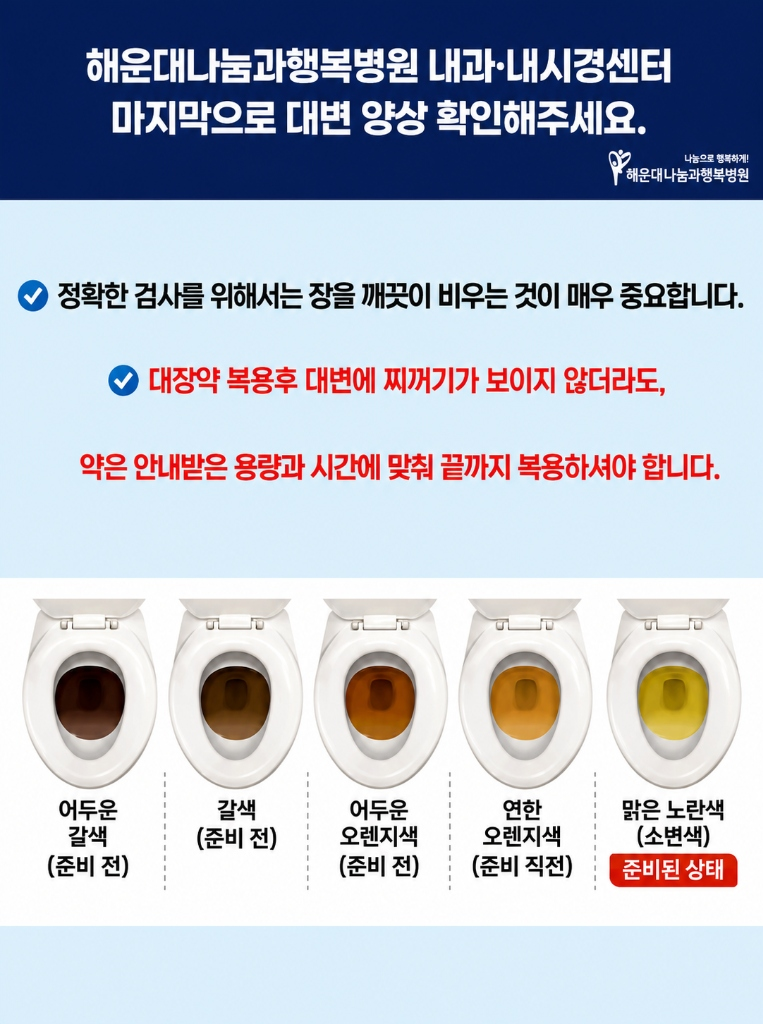
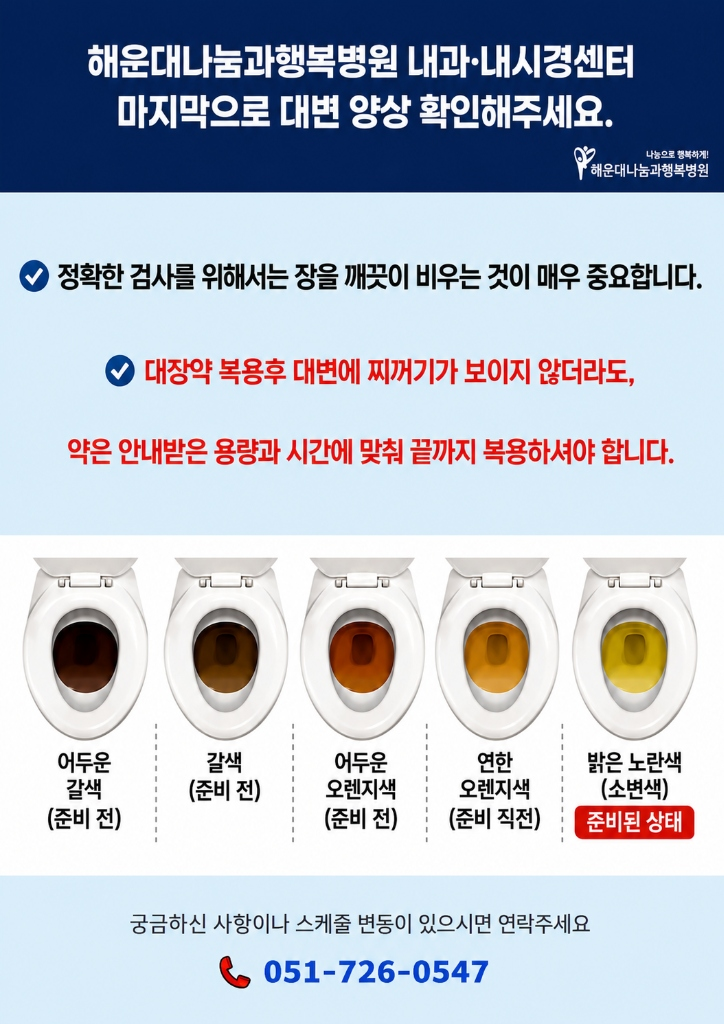
Replace screen 16 with new image and clean up HTML contact info

diff --git a/index.html b/index.html
@@ -22,22 +22,22 @@
             <!-- Wrapper to keep overlays aligned with canvas -->
             <div id="canvas-wrapper">
                 <canvas id="pdf-canvas"></canvas>
-                <img id="page1-img" class="hidden" src="page1.jpg?v=43" style="width: 100%; height: auto; display: block;" alt="Page 1">
-                <img id="page2-img" class="hidden" src="page2.png?v=43" style="width: 100%; height: auto; display: block;" alt="Page 2">
-                <img id="page3-img" class="hidden" src="page3.jpg?v=43" style="width: 100%; height: auto; display: block;" alt="Page 3">
-                <img id="page4-img" class="hidden" src="page4.png?v=43" style="width: 100%; height: auto; display: block;" alt="Page 4">
-                <img id="page5-img" class="hidden" src="page5.png?v=43" style="width: 100%; height: auto; display: block;" alt="Page 5">
-                <img id="page6-img" class="hidden" src="page6.png?v=43" style="width: 100%; height: auto; display: block;" alt="Page 6">
-                <img id="page7-img" class="hidden" src="page7.jpg?v=43" style="width: 100%; height: auto; display: block;" alt="Page 7">
-                <img id="page8-img" class="hidden" src="page8.png?v=43" style="width: 100%; height: auto; display: block;" alt="Page 8">
-                <img id="page9-img" class="hidden" src="page9.png?v=43" style="width: 100%; height: auto; display: block;" alt="Page 9">
-                <img id="page10-img" class="hidden" src="page10.png?v=43" style="width: 100%; height: auto; display: block;" alt="Page 10">
-                <img id="page11-img" class="hidden" src="page11.jpg?v=43" style="width: 100%; height: auto; display: block;" alt="Page 11">
-                <img id="page12-img" class="hidden" src="page12.png?v=43" style="width: 100%; height: auto; display: block;" alt="Page 12">
-                <img id="page13-img" class="hidden" src="page13.png?v=43" style="width: 100%; height: auto; display: block;" alt="Page 13">
-                <img id="page14-img" class="hidden" src="page14.png?v=43" style="width: 100%; height: auto; display: block;" alt="Page 14">
-                <img id="page15-img" class="hidden" src="page15.jpg?v=43" style="width: 100%; height: auto; display: block;" alt="Page 15">
-                <img id="page16-img" class="hidden" src="page16.jpg?v=43" style="width: 100%; height: auto; display: block;" alt="Page 16">
+                <img id="page1-img" class="hidden" src="page1.jpg?v=44" style="width: 100%; height: auto; display: block;" alt="Page 1">
+                <img id="page2-img" class="hidden" src="page2.png?v=44" style="width: 100%; height: auto; display: block;" alt="Page 2">
+                <img id="page3-img" class="hidden" src="page3.jpg?v=44" style="width: 100%; height: auto; display: block;" alt="Page 3">
+                <img id="page4-img" class="hidden" src="page4.png?v=44" style="width: 100%; height: auto; display: block;" alt="Page 4">
+                <img id="page5-img" class="hidden" src="page5.png?v=44" style="width: 100%; height: auto; display: block;" alt="Page 5">
+                <img id="page6-img" class="hidden" src="page6.png?v=44" style="width: 100%; height: auto; display: block;" alt="Page 6">
+                <img id="page7-img" class="hidden" src="page7.jpg?v=44" style="width: 100%; height: auto; display: block;" alt="Page 7">
+                <img id="page8-img" class="hidden" src="page8.png?v=44" style="width: 100%; height: auto; display: block;" alt="Page 8">
+                <img id="page9-img" class="hidden" src="page9.png?v=44" style="width: 100%; height: auto; display: block;" alt="Page 9">
+                <img id="page10-img" class="hidden" src="page10.png?v=44" style="width: 100%; height: auto; display: block;" alt="Page 10">
+                <img id="page11-img" class="hidden" src="page11.jpg?v=44" style="width: 100%; height: auto; display: block;" alt="Page 11">
+                <img id="page12-img" class="hidden" src="page12.png?v=44" style="width: 100%; height: auto; display: block;" alt="Page 12">
+                <img id="page13-img" class="hidden" src="page13.png?v=44" style="width: 100%; height: auto; display: block;" alt="Page 13">
+                <img id="page14-img" class="hidden" src="page14.png?v=44" style="width: 100%; height: auto; display: block;" alt="Page 14">
+                <img id="page15-img" class="hidden" src="page15.jpg?v=44" style="width: 100%; height: auto; display: block;" alt="Page 15">
+                <img id="page16-img" class="hidden" src="page16.jpg?v=44" style="width: 100%; height: auto; display: block;" alt="Page 16">
                 
                 <!-- Overlay for Screen 1 & 2: Click anywhere to go next -->
                 <div id="full-overlay" class="overlay hidden" onclick="goNext()">
@@ -67,10 +67,7 @@
             </div>
 
             <!-- Contact info for page 16 -->
-            <div id="contact-info" class="contact-info hidden">
-                궁금하신 사항이나 스케쥴 변동이 있으시면 연락주세요<br>
-                <a href="tel:051-726-0547" class="phone-link">📞 051-726-0547</a>
-            </div>
+            
 
             <!-- Back button for medicine detail pages -->
             <button id="back-btn" class="back-btn hidden" onclick="showPage(3)">← 뒤로가기</button>

diff --git a/fix16_update.js b/fix16_update.js
@@ -1,0 +1,18 @@
+const fs = require('fs');
+
+// Copy image
+fs.copyFileSync('C:\\Users\\LG\\.gemini\\antigravity\\brain\\9099f388-8581-4fa1-b388-668740ae9b49\\media__1784575078984.jpg', 'C:\\Users\\LG\\Desktop\\PO\\page16.jpg');
+
+// Update index.html
+let html = fs.readFileSync('C:\\Users\\LG\\Desktop\\PO\\index.html', 'utf8');
+// Remove contact-info div block entirely
+html = html.replace(/<div id="contact-info".*?<\/div>/s, '');
+html = html.replaceAll('v=43', 'v=44');
+fs.writeFileSync('C:\\Users\\LG\\Desktop\\PO\\index.html', html, 'utf8');
+
+// Update app.js
+let app = fs.readFileSync('C:\\Users\\LG\\Desktop\\PO\\app.js', 'utf8');
+app = app.replace(/const contactInfo = document\.getElementById\('contact-info'\);\s*if \(contactInfo\) contactInfo\.style\.backgroundColor = '.*?';/g, '');
+app = app.replace(/const contactInfo = document\.getElementById\('contact-info'\);\s*if \(contactInfo\) contactInfo\.classList\.add\('hidden'\);/g, '');
+app = app.replace(/} else if \(pageObjNum === 16\) \{\s*if \(contactInfo\) contactInfo\.classList\.remove\('hidden'\);\s*}/g, '');
+fs.writeFileSync('C:\\Users\\LG\\Desktop\\PO\\app.js', app, 'utf8');

diff --git a/app.js b/app.js
@@ -71,8 +71,7 @@ function renderPage(num) {
                 if (targetImg) targetImg.classList.remove('hidden');
                 wrapper.style.height = 'auto';
                 container.style.backgroundColor = '#fff';
-                const contactInfo = document.getElementById('contact-info');
-                if (contactInfo) contactInfo.style.backgroundColor = '#fff';
+                
                 const bowelHeading = document.getElementById('bowel-heading');
                 if (bowelHeading) bowelHeading.classList.add('hidden');
             } else if (num === 16) {
@@ -118,8 +117,7 @@ function renderPage(num) {
                 canvas.style.marginLeft = '0px';
                 canvas.style.width = '100%';
                 container.style.backgroundColor = '#fff';
-                const contactInfo = document.getElementById('contact-info');
-                if (contactInfo) contactInfo.style.backgroundColor = '#fff';
+                
                 const bowelHeading = document.getElementById('bowel-heading');
                 if (bowelHeading) bowelHeading.classList.add('hidden');
             }